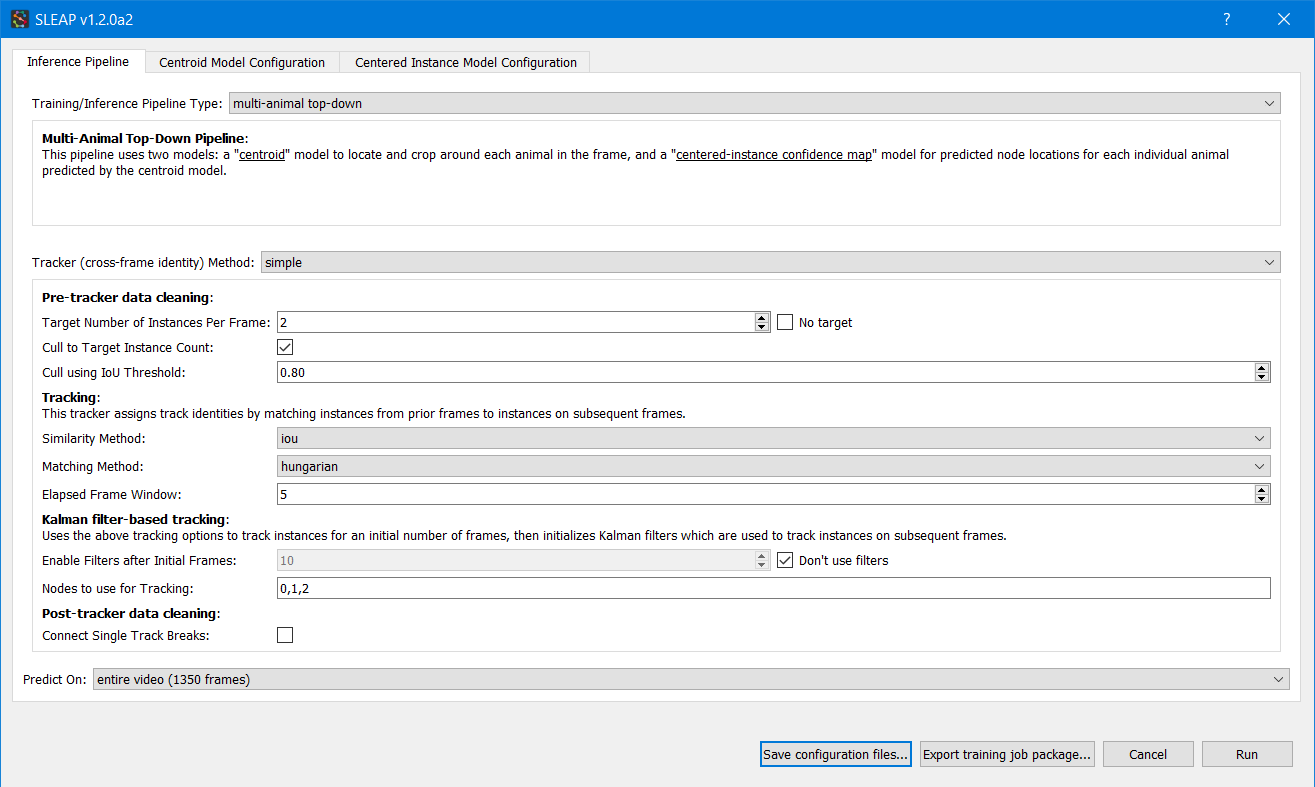
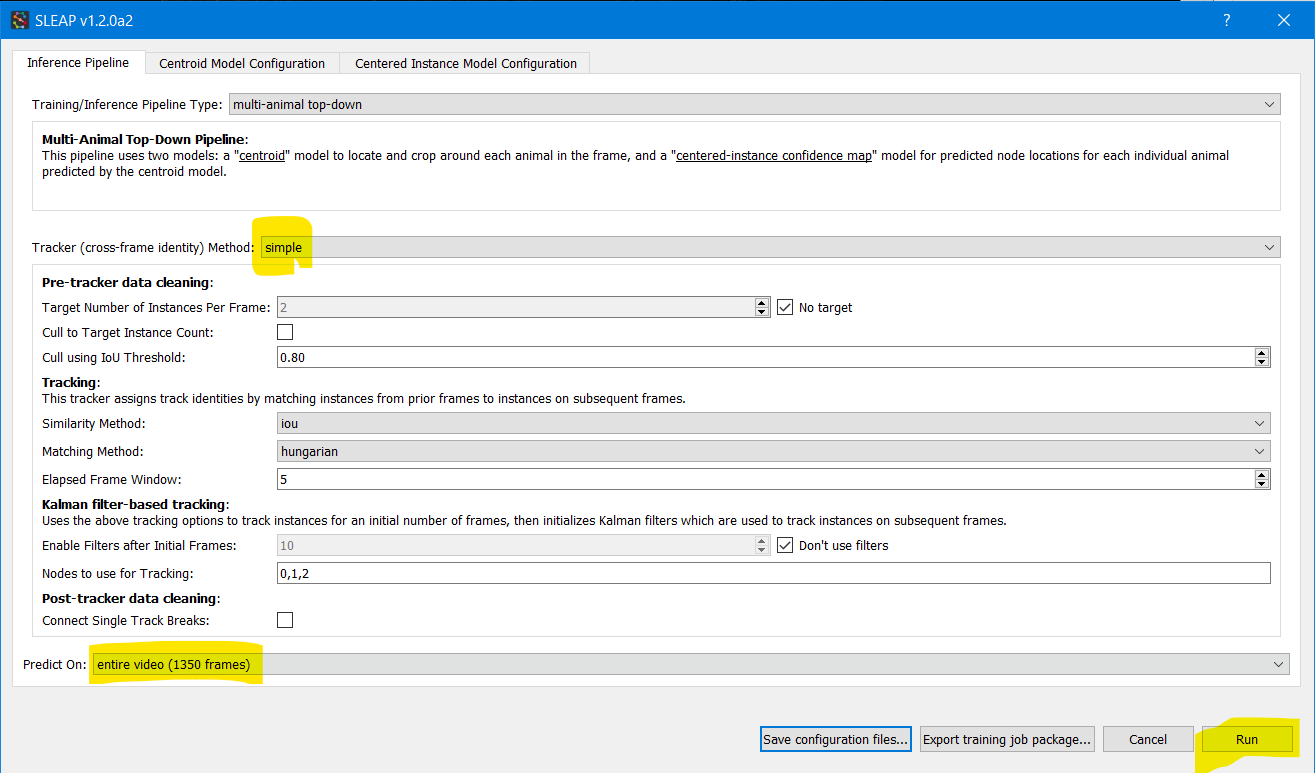
Tracking

Changed region(s): [[0.0, 0.2794, 0.9977, 1.0], [0.0, 0.0, 0.9665, 0.2484], [0.9665, 0.0, 0.9977, 0.031]]

diff --git a/inference.md b/inference.md
@@ -8,7 +8,7 @@ If you want to train your own model from scratch, check out [Activity 1](labelin
 
 If you want to use a pre-trained model, download this repository and use the ones in the [`data/models/`](https://github.com/talmolab/sleap-tutorial-uo/tree/main/data/models) folder.
 
-## 1. Inference through the GUI
+## 1a. Inference through the GUI
 
 Let's start by activating our environment if it is not yet:
 ```
@@ -33,12 +33,74 @@ If you don't see the models in the dropdown, click on **Select training config f
 
 Back in the first panel (**Inference Pipeline**), let's now set up the tracking so we can associate instances across time.
 
-For the tutorial, let's try the `simple` tracker and specify that we always have 2 instances in each frame. This will help with tracking ambiguities.
-
-Set the **Predict On** target to the `entire video`.
-
-Your GUI should look like this when configured:
+For the tutorial, let's use the `simple` tracker and we'll set the **Predict On** target to the `entire video`. Your GUI should look like this when configured:
 
 ![Inference config](images/inference-config.png)
 
-Now just click **Run** to start tracking! This may take a little while if running on a computer without a GPU.
+Now just click **Run** to start tracking! This may take a few minutes if running on a computer without a GPU.
+
+The results will be automatically imported and you can save the project again to store the results.
+
+## 1b. Inference through the CLI
+
+**Note:** Skip down to the next step if you don't want to learn how to run this using the commandline.
+
+Going through the GUI can be cumbersome, and often we want to run inference at scale on many videos and possibly even on a remote server such as a university cluster.
+
+To address this, we can use the [`sleap-track`](https://sleap.ai/guides/cli.html#sleap-track) commandline interface (CLI).
+
+To track our data with the same configuration as defined in the GUI above, just run this command:
+
+```
+sleap-track -m data/models/211229_075510.centroid -m data/models/211229_075510.centered_instance --tracking.tracker simple data/fly_clip.mp4
+```
+
+By default, this will save the resulting predictions to `data/fly_clip.mp4.predictions.slp`.
+
+## 2. Inspecting and proofreading the results
+
+Now that we have our predictions, we want to load them up in the SLEAP GUI to check for any tracking mistakes and correct them if necessary.
+
+Open the GUI as you did before and browse to the predictions project, or just call `sleap-label` with the path to the predictions, e.g.:
+```
+sleap-label "data/fly_clip.mp4.predictions.slp"
+```
+
+You'll now see that all frames are labeled and that they have been assigned to distinct tracks:
+
+![Tracked predictions](images/tracked-predictions.png)
+
+The raster plots at the bottom denote the frames where the instances of each track were found.
+
+If the instances do not appear to be colored by their track, tweak your visualization settings:
+
+- **View** → **Color Predicted Instances**
+- **View** → **Apply Distinct Colors To** → **instances**
+- *Optionally:* **View** → **Trail Length** → **200** to show the track behind each instance.
+
+Here we had pretty clean tracking results that do not seem to need any proofreading, but if necessary, you could set the instance tracks manually to correct for errors like swaps.
+
+## 3. Exporting results for analysis
+
+Once we're happy with our tracked project, we can export the predictions to a standalone HDF5 file for analysis.
+
+Unlike `.slp` files, this file can be used without requiring SLEAP to open it, and can be read using standard libraries in R or MATLAB.
+
+From the GUI, we can export this "Analysis HDF5" file from **File** → **Export Analysis HDF5...**.
+
+From the CLI, we can export it using the [`sleap-convert`](https://sleap.ai/guides/cli.html#sleap-convert) command:
+```
+sleap-convert -o data/predictions.analysis.h5 --format analysis data/predictions.slp
+```
+
+## Next steps
+
+- Continue to [Activity 3: Analyzing SLEAP outputs](analysis.md).
+
+- Check out the more detailed [tutorial on tracking and proofreading](https://sleap.ai/tutorials/proofreading.html).
+
+- Learn more about the [tracker parameters and proofreading utilities](https://sleap.ai/guides/proofreading.html).
+
+- Refer to the [`sleap-track` CLI documentation](https://sleap.ai/guides/cli.html#sleap-track).
+
+- Refer to the [`sleap-convert` CLI documentation](https://sleap.ai/guides/cli.html#sleap-convert).
